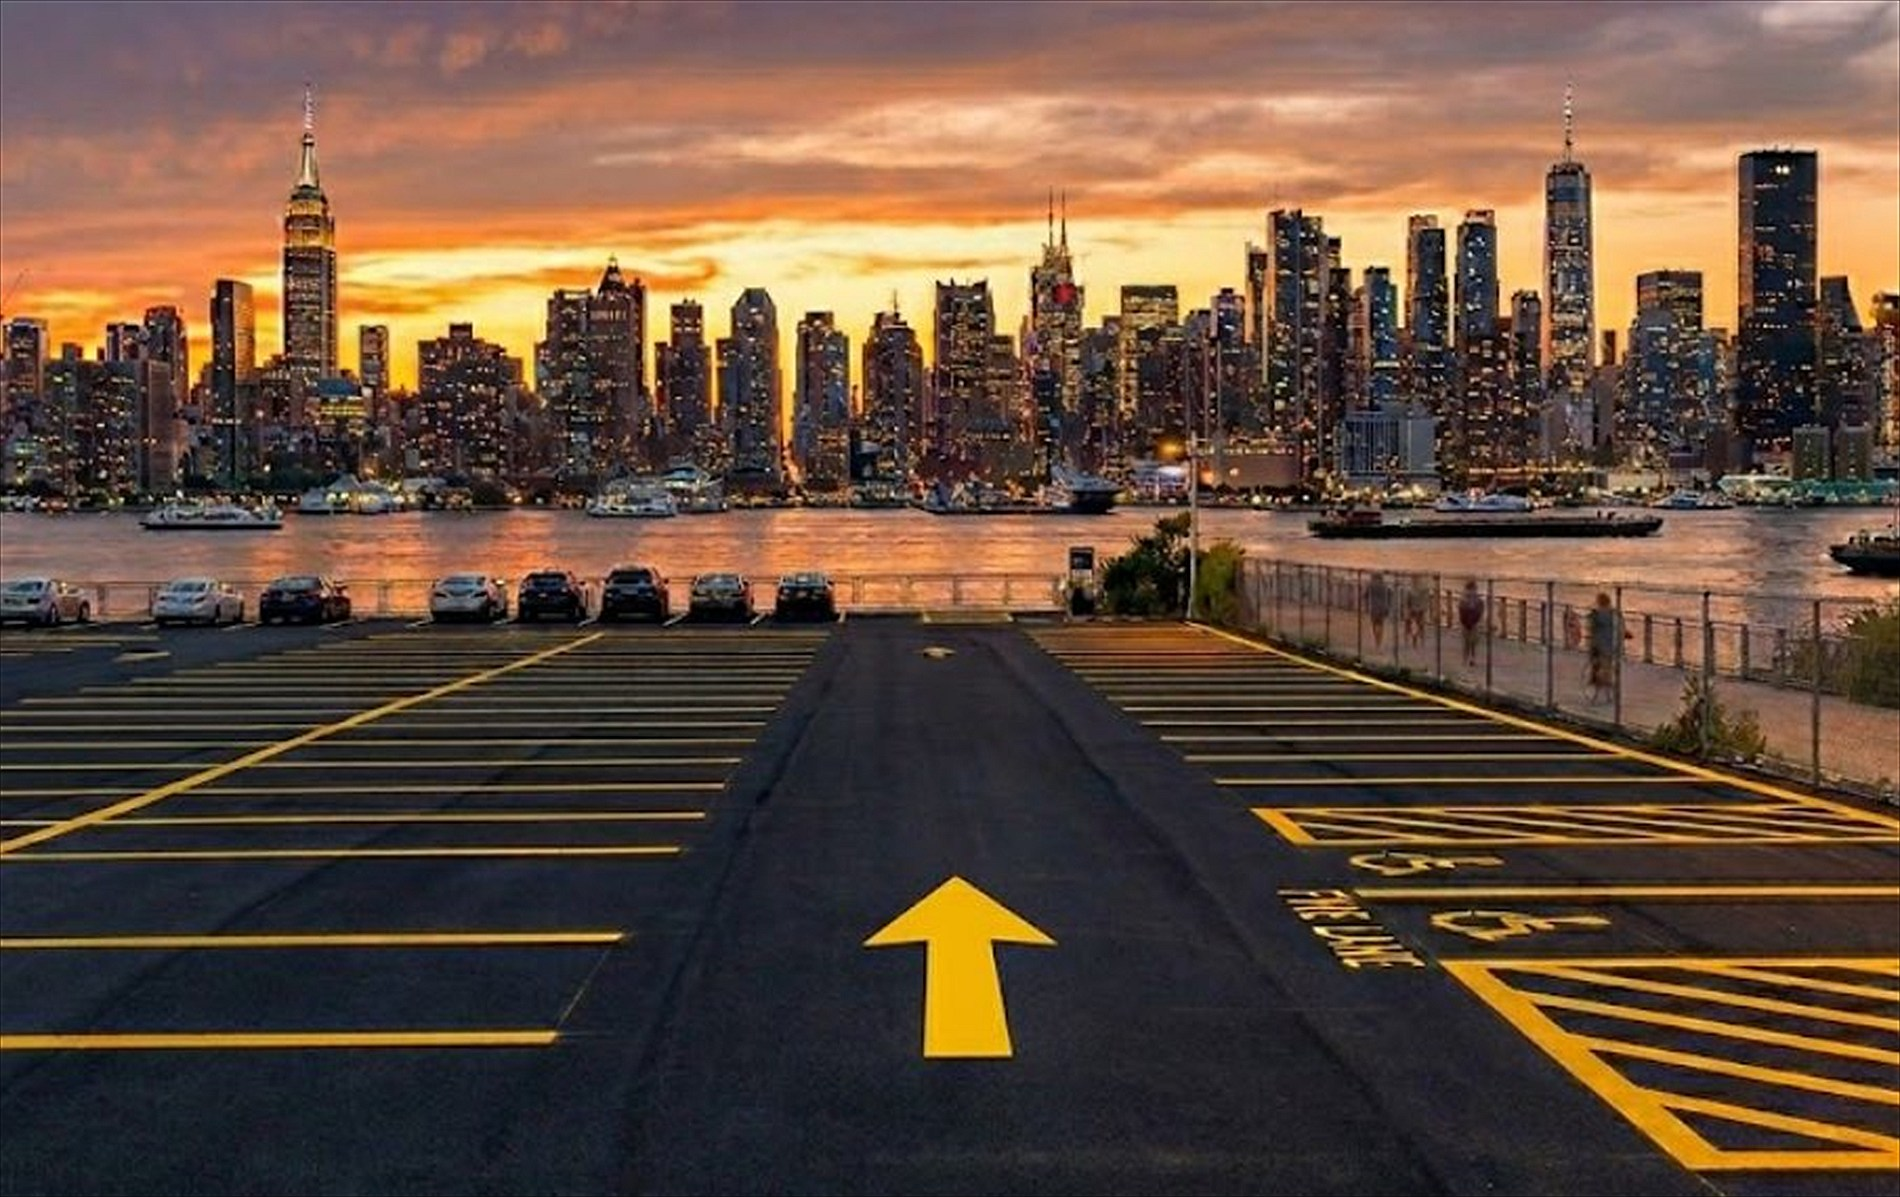
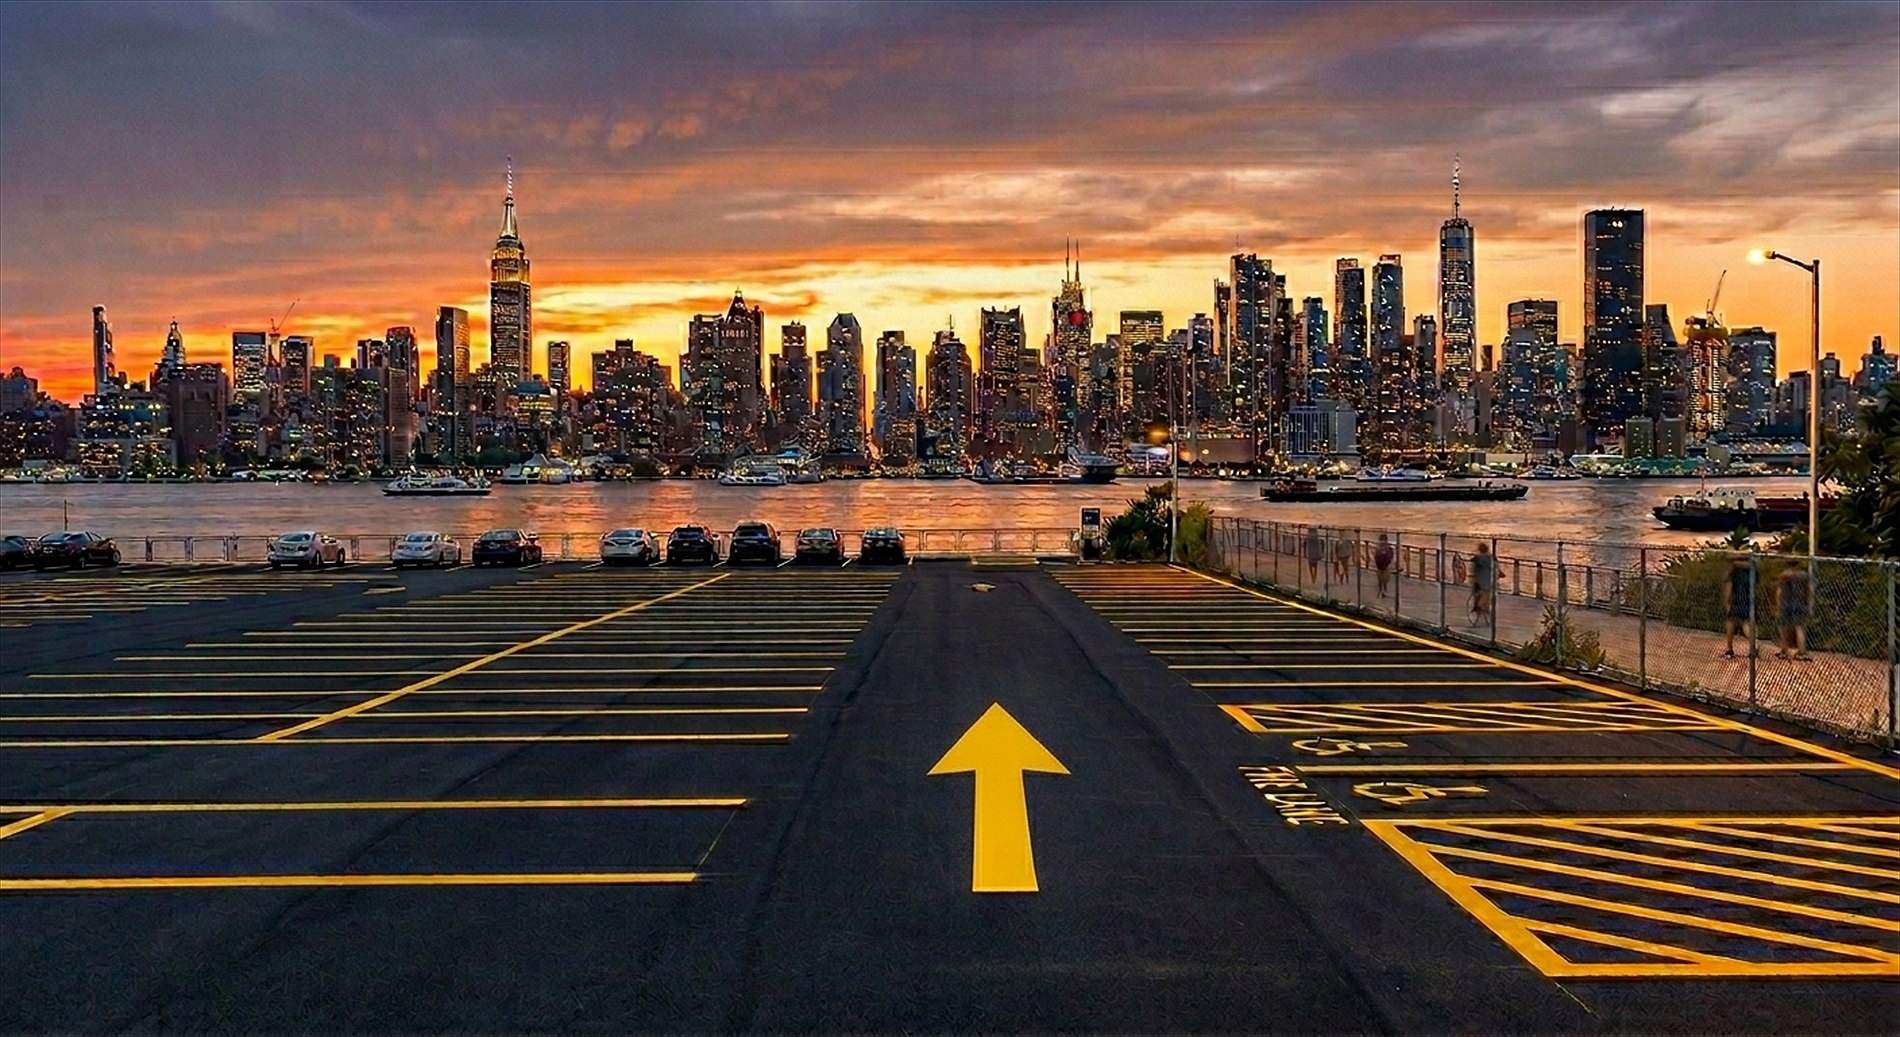
Replace hero with crisp watermark-free source image
Swap in the high-res 1408x768 original (native detail, far sharper than
the upscaled 905px composite). Clone-patched out the Gemini sparkle
watermark by cloning per-row at the local stripe period so the diagonal
hatch stays continuous. Re-center the arrow under the content
(background-position 72% 34%) and retarget the zoom origin. Keep
hero-v3-clean.png as the full-res master.

diff --git a/index.html b/index.html
@@ -150,7 +150,7 @@ h1.hh em{font-style:normal;color:var(--or);display:block}
 .tchip>span{font-size:10px;font-weight:700;letter-spacing:1.5px;text-transform:uppercase;color:var(--bo)}
 @keyframes fu{from{opacity:0;transform:translateY(18px)}to{opacity:1;transform:none}}
 /* Hero visual */
-.hero-bg{position:absolute;inset:0;z-index:0;background-image:url('hero.jpg');background-size:cover;background-position:60% 30%;filter:contrast(1.06) saturate(1.05);transform-origin:57% 74%;animation:heroKen 26s ease-in-out infinite alternate;will-change:transform}
+.hero-bg{position:absolute;inset:0;z-index:0;background-image:url('hero.jpg');background-size:cover;background-position:72% 34%;filter:contrast(1.06) saturate(1.05);transform-origin:52% 78%;animation:heroKen 26s ease-in-out infinite alternate;will-change:transform}
 @keyframes heroKen{from{transform:scale(1)}to{transform:scale(1.13)}}
 @media(prefers-reduced-motion:reduce){.hero-bg{animation:none}}
 .hero-bg::after{content:'';position:absolute;inset:0;background:linear-gradient(180deg,rgba(20,24,28,.78) 0%,rgba(20,24,28,.48) 28%,rgba(20,24,28,.38) 58%,rgba(20,24,28,.99) 100%),radial-gradient(ellipse 62% 55% at 50% 42%,rgba(20,24,28,.55) 0%,transparent 70%)}